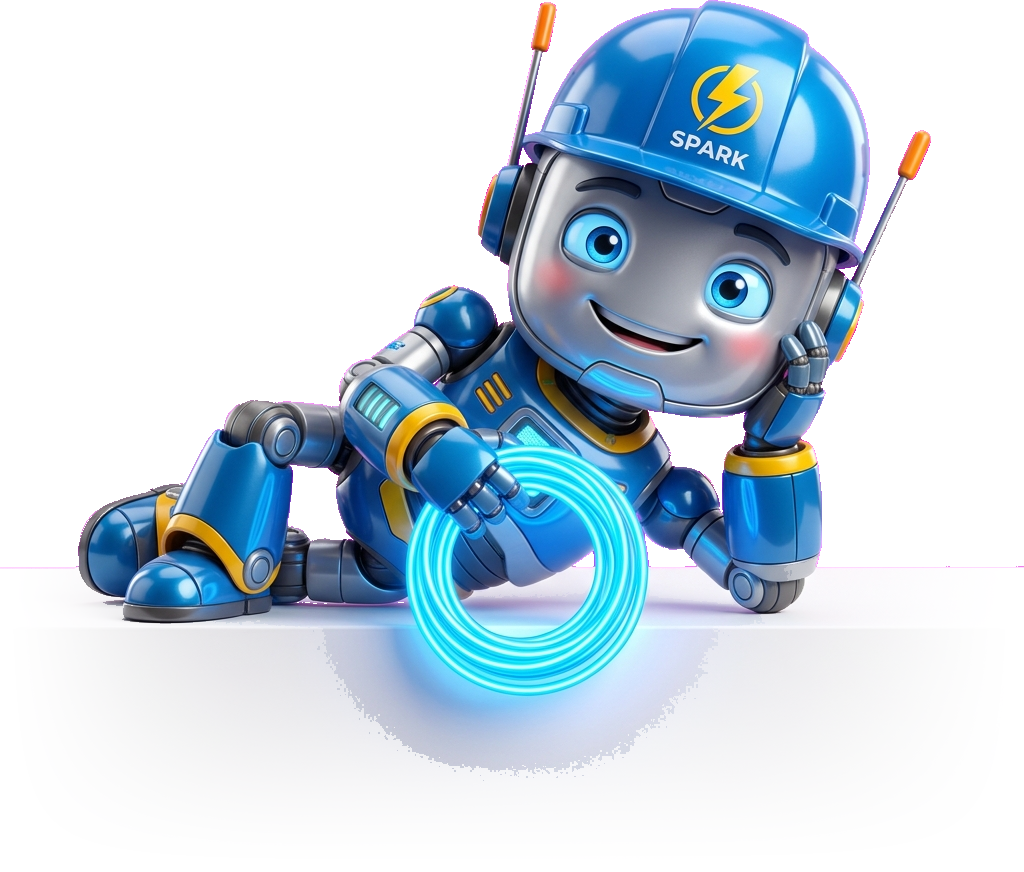
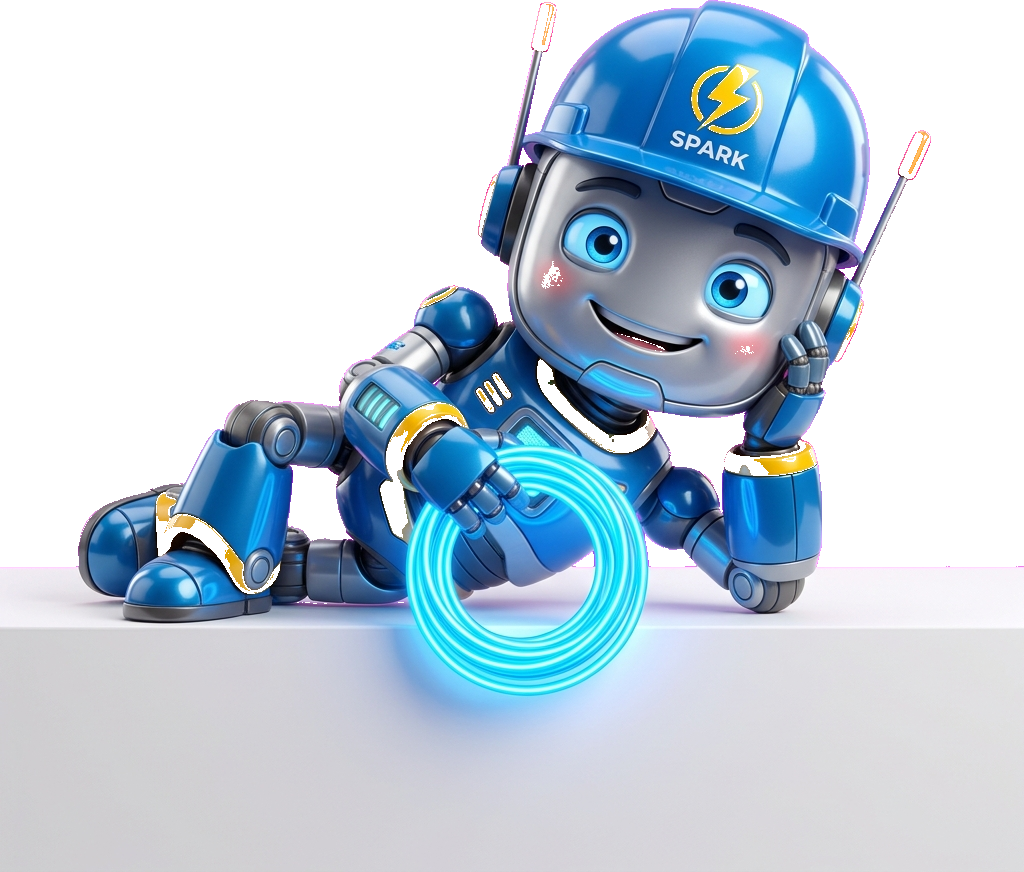
remove_white_pedestal_block_completely_leaving_only_pure_mascot_cutout

diff --git a/src/components/catalog/guided-wizard-modal.tsx b/src/components/catalog/guided-wizard-modal.tsx
@@ -240,7 +240,7 @@ export default function GuidedWizardModal() {
         className="relative w-full max-w-4xl bg-surface-white border border-border rounded-2xl shadow-2xl overflow-visible flex flex-col max-h-[85vh] my-0"
         onClick={(e) => e.stopPropagation()}
       >
-        {/* 3D Mascot Character - LYING POSE PERFECTLY ALIGNED IDEAL POSITION WITH SOFT GRADIENT FADE */}
+        {/* 3D Mascot Character - PURE ROBOT CUTOUT RESTING DIRECTLY ON MODAL TOP BORDER */}
         <div className="absolute -top-[80px] sm:-top-[104px] right-6 sm:right-10 pointer-events-none hidden sm:block z-50 transition-transform hover:scale-105">
           <img 
             src="/images/ai-mascot-peeking.png" 
